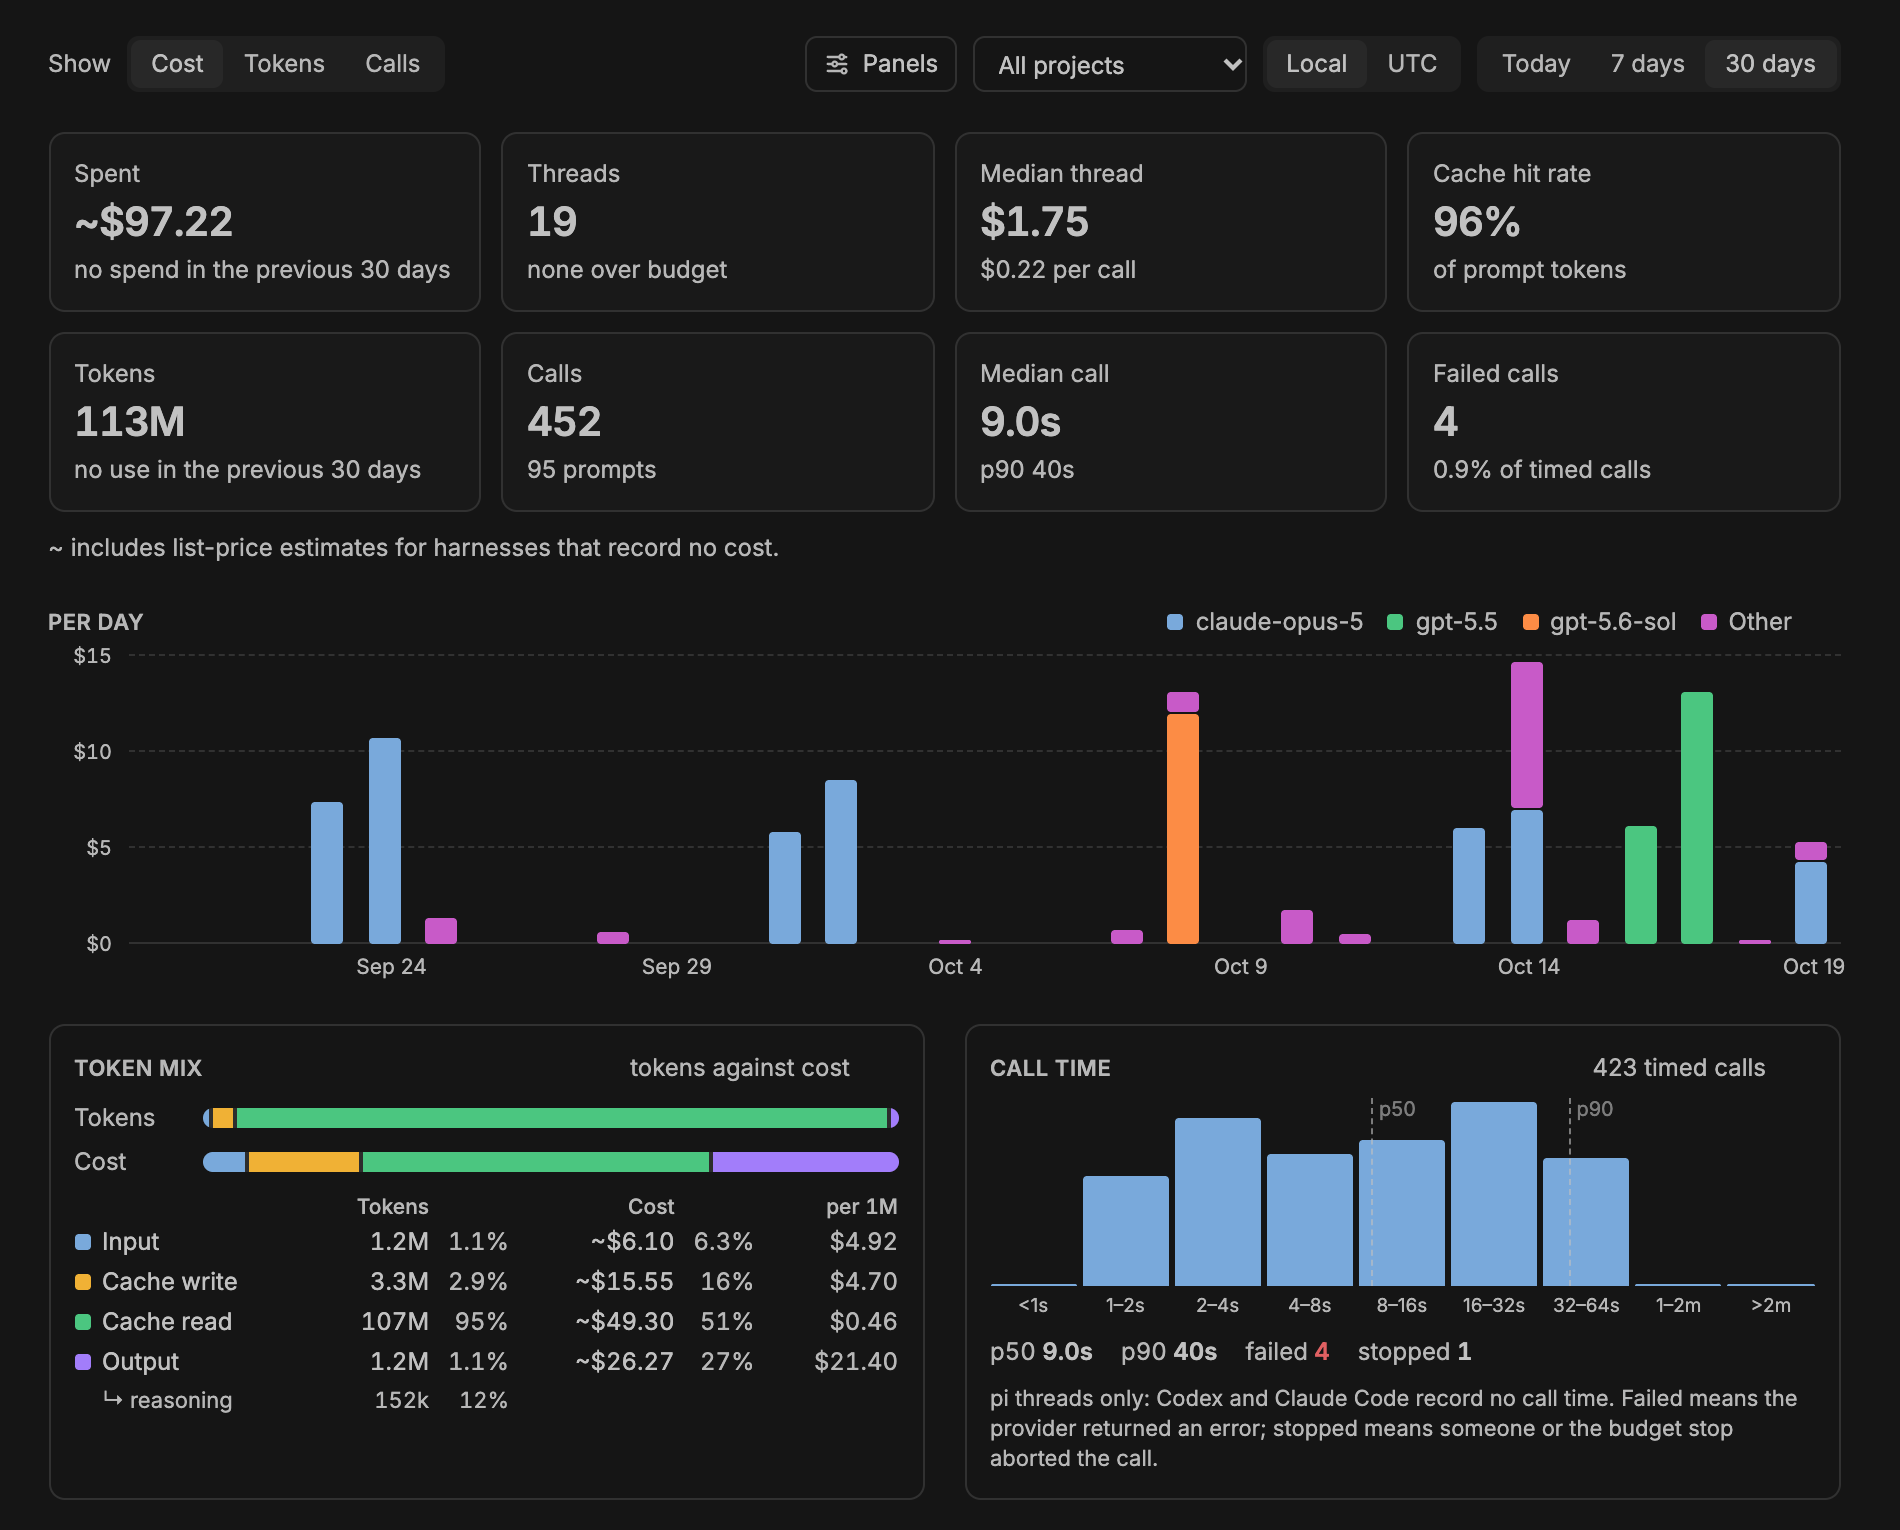
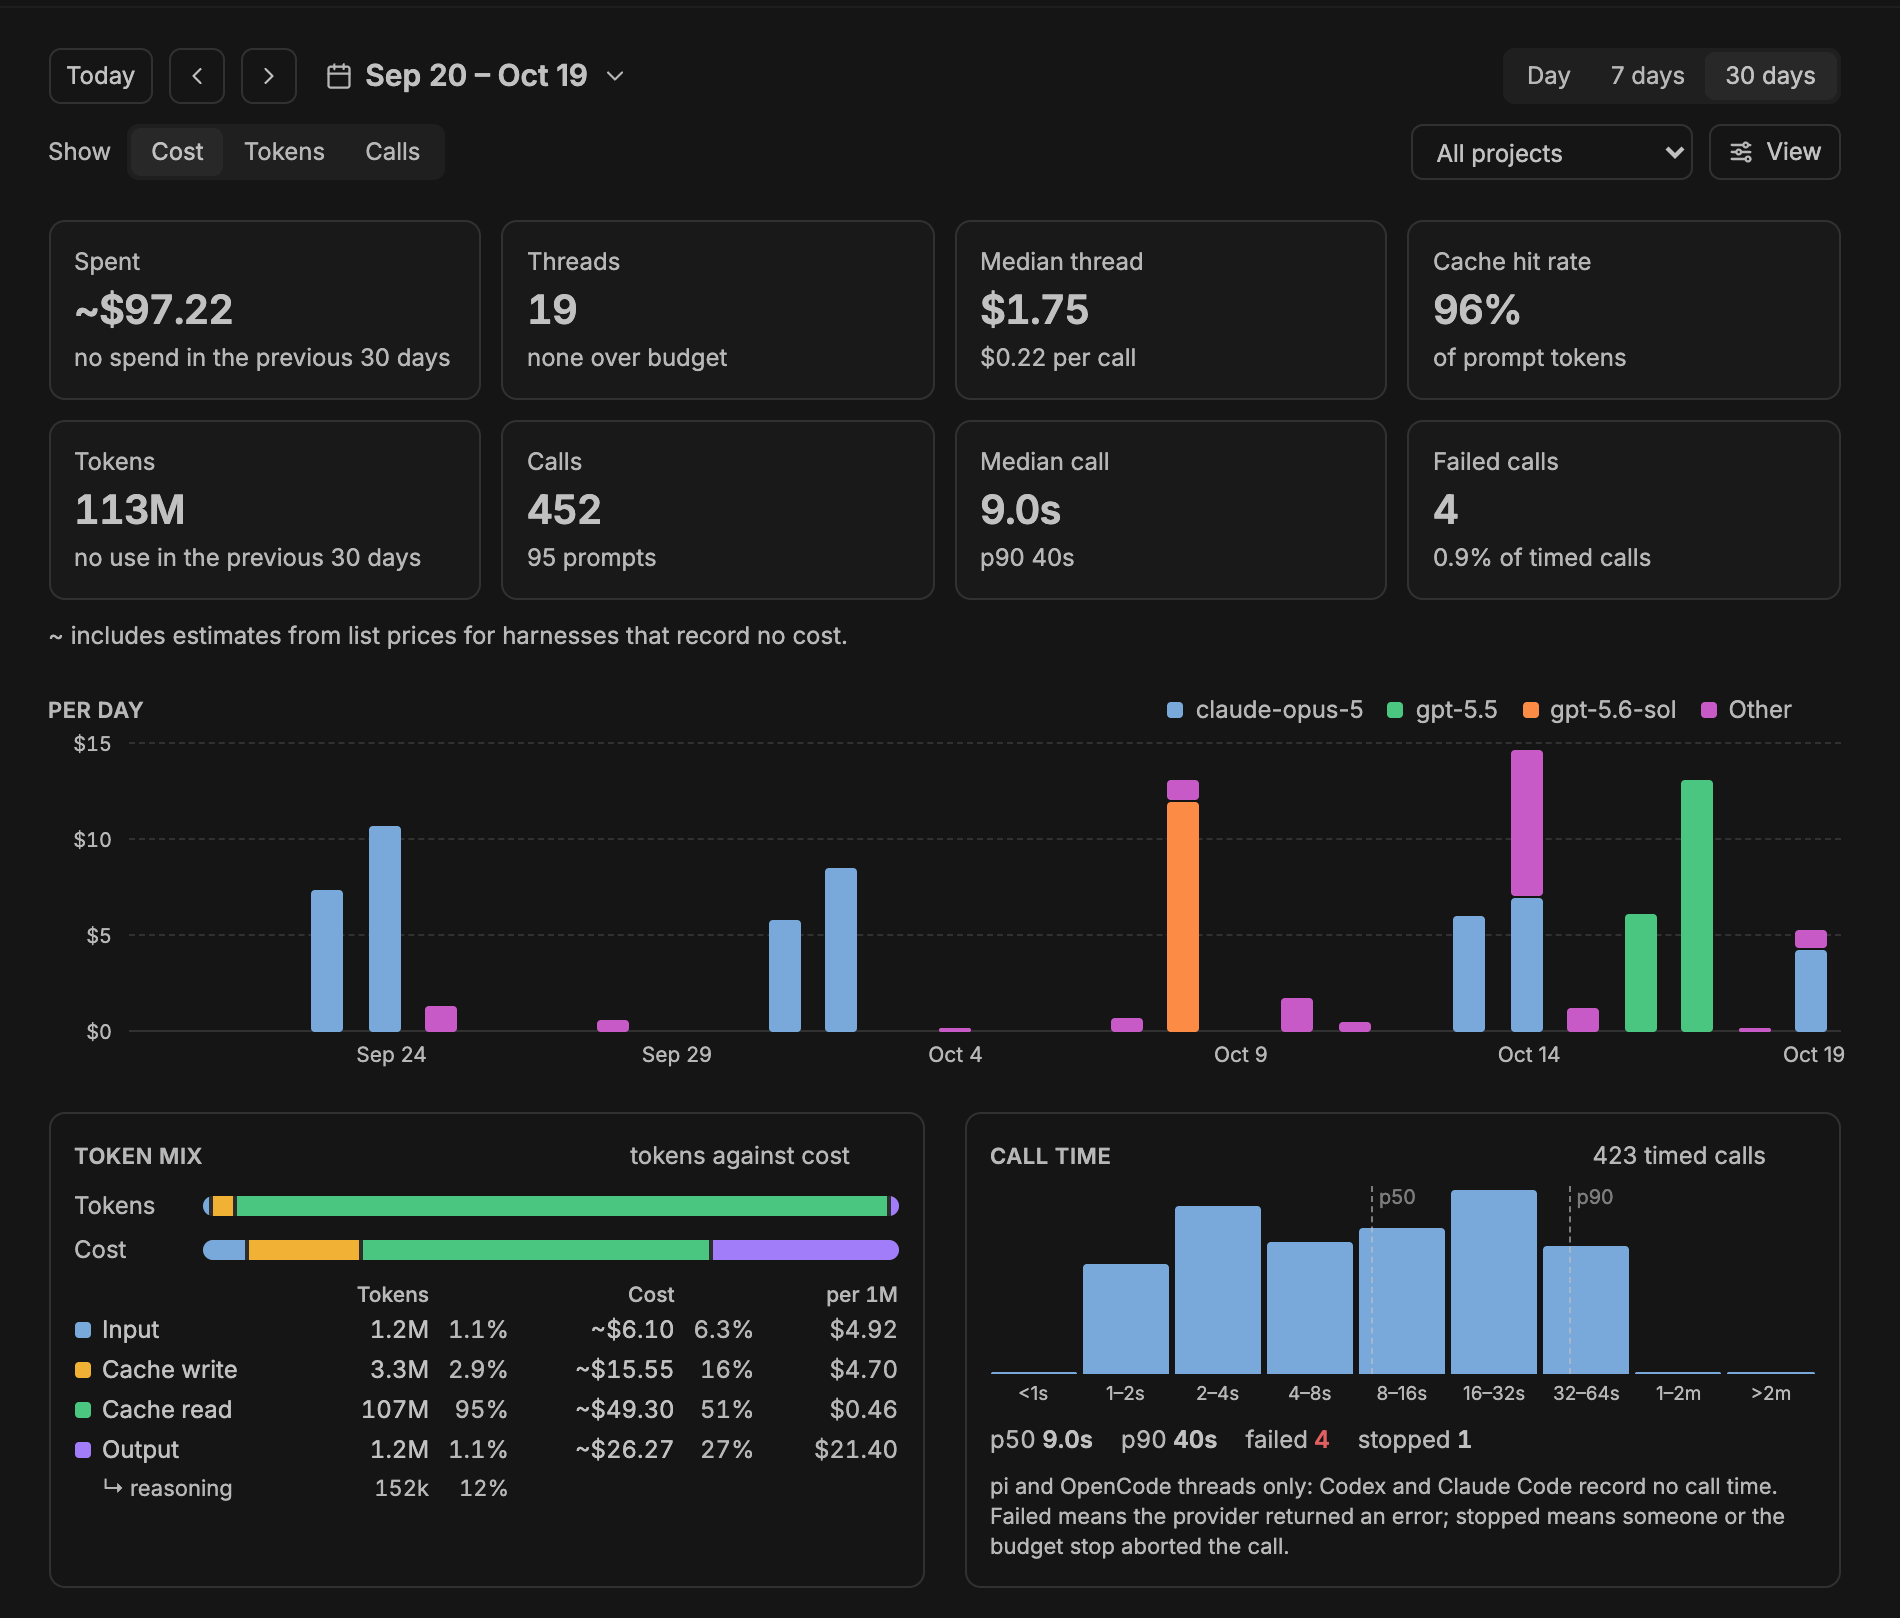
Burn 0.7.1: OpenCode in the call-time notes, and new screenshots
Burn 0.7.0 counts OpenCode's call times, but four notes still said only pi records them: the Call time panel's note and its entry in the View menu, the hint on the median-call and failed-call cards, and the card's explanation of where a thread's cost comes from. They now name pi and OpenCode.

The four bb screenshots in assets/screenshots are retaken from the sandbox bb with the same made-up threads: the card now shows each model's output speed, the Burn tab its speed card, and the Burn page its two-row toolbar, here on the 30 days ending 19 October.

Upgrading keeps users' data: in the sandbox bb, going from 0.6.0 to 0.7.x left the settings, a thread budget and every pi, Codex and Claude Code thread's calls, prompts and cost unchanged, and added the OpenCode threads. Settings, stored keys and the plugin database's tables are the same as in 0.6.0.

diff --git a/extensions/bb/spend/usage.tsx b/extensions/bb/spend/usage.tsx
@@ -72,7 +72,7 @@ export function Change({ now, before, than, none }: { now: number; before: numbe
   );
 }
 
-const TIMING_HINT = "Only pi records how long a call took and how it ended.";
+const TIMING_HINT = "Only pi and OpenCode record how long a call took and how it ended.";
 
 export function UsageCards({ data }: { data: SpendOutput }) {
   const { p50, p90, timed, failed } = data.callTime;
@@ -260,7 +260,7 @@ export function CallTime({ data, hide }: { data: SpendOutput; hide?: ReactNode }
         </>
       )}
       <p className="mt-2 text-[11px] leading-snug text-muted-foreground">
-        pi threads only: Codex and Claude Code record no call time. Failed means the provider returned an error; stopped means someone or the budget stop
+        pi and OpenCode threads only: Codex and Claude Code record no call time. Failed means the provider returned an error; stopped means someone or the budget stop
         aborted the call.
       </p>
     </section>

diff --git a/test/bb/chip.test.tsx b/test/bb/chip.test.tsx
@@ -395,7 +395,7 @@ describe("the chip's popover", () => {
     const card = within(await slot.findByRole("dialog"));
     expect(card.getByTestId("waiting").textContent).toContain("Waiting for the first model call");
     expect(card.getByTestId("waiting").textContent).toContain(
-      "from pi's session log in pi threads, and from the usage bb records for other harnesses. Claude Code reports as each turn ends.",
+      "from pi's session log in pi threads, from opencode's database in OpenCode threads, and from the usage bb records for other harnesses. Claude Code reports as each turn ends.",
     );
     expect(card.getByTestId("waiting").textContent).not.toMatch(/restart/i);
   });

diff --git a/extensions/bb/card.tsx b/extensions/bb/card.tsx
@@ -36,7 +36,7 @@ export function WaitingNotice(): ReactNode {
     <div className="flex flex-col gap-1 text-xs" data-testid="waiting">
       <div className="font-semibold">Waiting for the first model call</div>
       <p className="text-muted-foreground">
-        Burn shows a thread's cost after its first model call: from pi's session log in pi threads, and from the usage bb records for other harnesses.
+        Burn shows a thread's cost after its first model call: from pi's session log in pi threads, from opencode's database in OpenCode threads, and from the usage bb records for other harnesses.
         Claude Code reports as each turn ends.
       </p>
     </div>

diff --git a/extensions/bb/spend/panels.tsx b/extensions/bb/spend/panels.tsx
@@ -10,7 +10,7 @@ export const PANELS: readonly { id: SpendPanel; label: string; hint?: string }[]
   { id: "usage", label: "Usage cards", hint: "Tokens, calls, median call, failed calls" },
   { id: "chart", label: "Per day", hint: "The chart by day, or today's bar" },
   { id: "mix", label: "Token mix" },
-  { id: "time", label: "Call time", hint: "pi threads only" },
+  { id: "time", label: "Call time", hint: "pi and OpenCode threads only" },
   { id: "activity", label: "Activity by hour" },
   { id: "threads", label: "Threads", hint: "The ten biggest threads" },
   { id: "models", label: "Models" },
